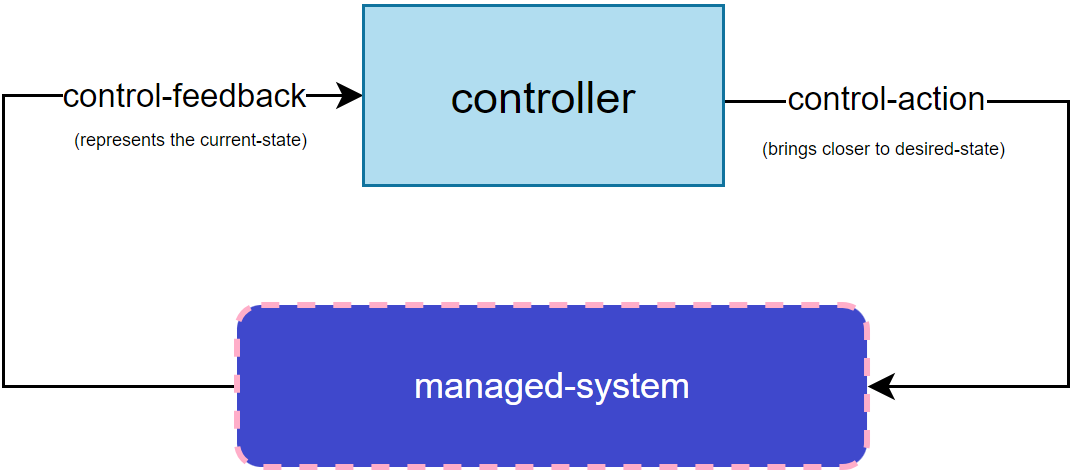
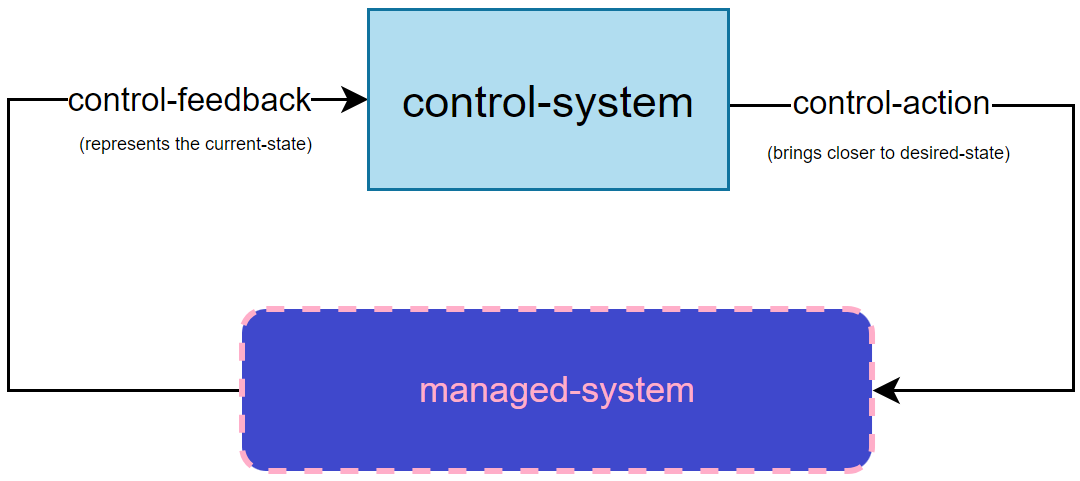
docs(defs.md): fix

diff --git a/docs/defs.md b/docs/defs.md
@@ -1,201 +1,167 @@
 # managed-system
-Any system that can be managed by Lupus in a [Closed Control Loop](#closed-control-loop) manner. Typically we aim into systems from telco and mobile networks industry.
+A system that can be managed by Lupus in a [Closed Control Loop](#closed-control-loop) manner. Lupus primarily targets systems in the telecommunications and mobile networks industries.
 
 # control-loop
-Is a fundametal building block of [control-systems](#control-system) (which manages, commands, direct or regulates the bahavior or other devies or systems) in industrial control systems.
+A fundamental building block of [control-systems](#control-system) that manages, commands, directs, or regulates the behavior of other devices or systems in industrial control systems.
 
-We divide control-loops in two groups wheter they incorporate feedback mechanism or not:
-- open-control-loops: the control action (input to the managed-system) is indepentent of the managed-system output.
-- closed-control-loops: in this the output of managed-system is "fed back" to the [control-system](#control-system) and influences the control-action
+Control-loops are divided into two categories based on the incorporation of feedback mechanisms:
+- **Open Control Loops**: The control action (input to the managed system) is independent of the managed system's output.
+- **Closed Control Loops**: The output of the managed system is "fed back" to the [control-system](#control-system) and influences the control action.
 
 # current-state
-The observed, present at the moment and real state of a [managed-system](#managed-system). In contrary to an abstract term of [desired-state](#desired-state).
+The observed, real-time state of a [managed-system](#managed-system). This contrasts with the abstract [desired-state](#desired-state).
 
 # desired-state
-The state of [managed-system](#managed-system) that we would like to achieve from the management point of view. Typically it is derived from the [management-problem](#management-problem). 
+The target state of a [managed-system](#managed-system) that the [control-system](#control-system) aims to achieve. Typically, it is derived from the [management-problem](#management-problem).
 
 # closed-control-loop
-Here, we adopt the defintion of 'control-loop' from Kubernetes. https://kubernetes.io/docs/concepts/architecture/controller/.  Kubernetes concept of sending [current-state](#current-state) as input to the [controller](#controller) is de facto a feedback mechanism, hence every control-loop in Kubernetes is closed-control-loop.
+In Kubernetes, every control-loop is of type closed loop and Kubernetes names them simply - "control loops". In Lupus, we adapt terminology from [Overview of Prominent Control Loop Architectures](https://www.etsi.org/deliver/etsi_gr/ENI/001_099/017/02.01.01_60/gr_ENI017v020101p.pdf), but in mix with [ICS](https://en.wikipedia.org/wiki/Industrial_control_system) one.
 
-Defition: non-terminating loop that regulates the state of a system, by bringing the [current-state](#current-state) of [managed-system](#managed-system) closer to the [desired-state](#desired-state) in each iteration.
+Since, a "Closed control loop" is a loop with architecture as in:
 
 ![](../_img/46.png)
 
+and definition of "A non-terminating loop that regulates the state of a system by iteratively bringing the [current-state](#current-state) of a [managed-system](#managed-system) closer to the [desired-state](#desired-state).".
+
+
 # control-system
-A brain of closed-control-loop. It reads the [control-feedback](#control-feedback) and comes up with [control-action](#control-action). 
+The brain of a closed-control-loop. It reads the [control-feedback](#control-feedback) and determines the [control-action](#control-action) required to address the [management-problem](#management-problem).
 
-Lupus aspires to be the one. 
-
-The ultimate goal of control-system is to solve or keep in harmony the [management-problem](#management-problem).
+Lupus aspires to function as such a control-system.
 
 # control-feedback
-A representation of [current-state](#current-state) sent by the [managed-system](#managed-system) to the [control-system](#control-system).
+A representation of the [current-state](#current-state) sent from the [managed-system](#managed-system) to the [control-system](#control-system).
 
 # control-action
-An action send to or performed on [managed-system](#managed-system) by the [control-system](#control-system) that has to bring it closer to [desired-state](#desired-state).
+An action sent to or performed on a [managed-system](#managed-system) by the [control-system](#control-system) to bring it closer to the [desired-state](#desired-state).
 
 # reconciliation
-An act of bring the [current-state](#current-state) of a [managed-system](#managed-system) closer to the [desired-state](#desired-state). 
+The process of bringing the [current-state](#current-state) of a [managed-system](#managed-system) closer to the [desired-state](#desired-state).
 
 # ingress-agent
-When [user](#user) wants to integrate his [managed-system](#managed-system) with Lupus - as in any other case of combining two softwares together -  he needs some API Integration. Sometimes [user](#user) cannot modify the [managed-system](#managed-system). For such case, and for more generic secure option we came up with ingress-agent. Ingress-Agent links Lupus and [managed-system] together. Typical operation for Ingress-Agent operations is to:
-- receive or gather itself iformation from [managed-system](#managed-system) (sometimes from multiple sources)
-- watch for changes in [managed-system]
-- translate [managed-system](#managed-system) nomenclature to the Lupus one
+An intermediary that integrates a [managed-system](#managed-system) with Lupus. This is especially useful when the [user](#user) cannot modify the managed system. 
 
-Communication of Ingress-Agent and [managed-system](#managed-system) is case-specific, out of scope of this repo and to be done by [user](#user). But communication of Ingres-Agent and Lupus is standardized as [lupin-interface](#lupin-interface). 
+Typical responsibilities of an ingress-agent include:
+- Receiving or gathering information from the [managed-system](#managed-system).
+- Monitoring changes in the [managed-system](#managed-system).
+- Translating managed system terminology into Lupus-compatible nomenclature.
 
-Ingress-Agent communicates with [managed-system](#managed-system) and provides Lupus with [control-feedback](#control-feedback) via [lupin-interface](#lupin-interface).
+The communication between the ingress-agent and the [managed-system](#managed-system) is case-specific and must be implemented by the [user](#user). Communication between the ingress-agent and Lupus is standardized via the [lupin-interface](#lupin-interface).
 
 # egress-agent
-Same as [Ingress-Agent](#ingress-agent) but at the output of Lupus. 
+An intermediary that translates the [control-action](#control-action) from Lupus into actions performed on the [managed-system](#managed-system).
 
-On one side Egress-Agent receives the [control-action](#control-action) from Lupus. This [control-action] is represented as [resulting-data](#resulting-data) json. The mission of Egress-Agent is to translate this into real actions performed on [managed-system] and send them on the other side.
+The egress agent receives the [control-action](#control-action) as [final-data](#final-data) in JSON format from Lupus via the [lupout-interface](#lupout-interface) and performs the corresponding actions on the [managed-system](#managed-system).
 
-Interface on which Lupus send its [control-action](#control-action) is named [lupout-interface](#lupout-interface). 
+# reconciliation-logic
+The operations required to achieve [reconciliation](#reconciliation).
 
-# reconcilliation-logic
-It comprises of operations that are mandatory for [reconciliation](#reconciliation) goal. 
+# loop-logic
+Similar to [reconciliation-logic](#reconciliation-logic), but while reconciliation logic describes what needs to be done in a single iteration, loop-logic is more of a general attribute of the loop.
 
-# loop logic 
-Same as [reconciliation-logic](#reconcilliation-logic), while reconciliation logic describes more what has to be done in a single iteration and loop-logic is more of a general loop attribute.
-
-In context of this repo, we can highlight a [computing-part of the loop-logic](#computing-part). Computing part is responsible for the actual calculations, while the other part of loop-logic contain sequence of these calculations or data fed from/to them.
+We can divide loop-logic in two parts:
+- [computing-part](#computing-part) responsible form performing the actual calculations, while
+- [loop-workflow](#loop-workflow) expresses the sequence of these calculations and the data passed to and from them.
 
 # computing-part
-Part of the [loop-logic](#loop-logic) that is responsible for calculations that have to be done for reconciliation. 
+The component of the [loop-logic](#loop-logic) responsible for performing calculations required for [reconciliation](#reconciliation). 
 
-Since Lupus is [data-driven](#data-driven), this part is performed by [external-elements](#external-element), not [lupus-elements](#lupus-element).
-
+Since Lupus is [data-driven](#data-driven), this part is handled by [external-elements](#external-element), not [lupus-elements](#lupus-element).
 
 # loop-workflow
-It is a [workflow](#workflow) present in one iteration of loop. Loop workflow should deliver the proper [loop-logic](#loop-logic). It is build from [loop-elements](#loop-element). In Lupus, loop-workflow is expressed in [LupN](#lupn).
+A [workflow](#workflow) performed during one iteration of a control loop. A loop workflow delivers the [loop-logic](#loop-logic) and is composed of [loop-elements](#loop-element).
+
+In Lupus, the loop workflow is expressed in [LupN](#lupn).
 
 # loop-element
-Building entity of Loop Workflow. Can be [lupus-element] or [external-element].
+A building block of the [loop-workflow](#loop-workflow). Loop elements can be either [lupus-elements](#lupus-element) or [external-elements](#external-element).
 
 # lupus-element
-A [loop-element] that runs in Kubernetes Cluster. Its mission is to express [loop workflow], but delegate loop-logic to external elements. Lupus-element is implemented as [custrom-resource](#custom-resources) and thus its [controller](#controller) can't have any loop-logic implemented. Loop-logic has to be derived somewhere else.
+A [loop-element](#loop-element) that runs in a Kubernetes cluster. Its purpose is to express the [loop-workflow](#loop-workflow) and delegate the [computing-part](#computing-part) to [external-elements](#external-element). 
 
-In Kubernetes it is a [custom-resource](#custom-resources) named `elements.lupus.gawor.io`. 
+A lupus element is implemented as a [custom-resource](#custom-resources).
 
 # external-element
-A [loop-element] that runs outside of Kubernetes Cluster. Its mission is to deliver [computating-part](#computing-part) of [loop-logic](#loop-logic). 
+A [loop-element](#loop-element) that operates outside the Kubernetes cluster, performing the [computing-part](#computing-part) of the [loop-logic](#loop-logic).
 
-As for now 3 types of external-elements are supported:
+Supported types include:
 - HTTP servers
-- Open Policy Agent (subtype of HTTP Server)
+- Open Policy Agent (a subtype of HTTP server)
 - [user-functions](#user-functions)
 
 # user-functions
-It was assumed that [controller](#controller) of [lupus-element](#lupus-element) should not contain any [computing-part](#computing-part) of [loop-logic](#loop-logic). But sometimes it is non-sense to deploy a HTTP Server solely for the reason of it serving as [external-element](#external-element) for Lupus (e.g. in case if [computation-part](#computation-part) of [loop-logic](#loop-logic) contains few lines of code). We allow to deploy such logic in [controller](#controller) of [lupus-element](#lupus-element) by introduction of "user-functions". These functions act logically as [external-elemenet](#external-element) with the difference that physically they are deployed in Kubernetes cluster, not outside of it. 
-
-//TODO link for docs
+A lightweight alternative to deploying HTTP servers for simple computations. User functions act as [external-elements](#external-element) but are executed within the Kubernetes cluster.
 
 # lupin-interface
-Interface implemented by the [Ingress-Agent](#ingress-agent) on which it sends [control-feedback](#control-feedback) to the Lupus.
-
-//TODO link for docs
+The interface through which the [ingress-agent](#ingress-agent) sends [control-feedback](#control-feedback) to Lupus.
 
 # lupout-interface
-Interface implemented by the [Egress-Agent](#egress-agent) on which it receiver [control-action](#control-action) from the Lupus.
-
-//TODO link for docs
+The interface through which Lupus sends [control-action](#control-action) to the [egress-agent](#egress-agent).
 
 # management-problem
-A problem that occurs in given [managed-system](#managed-system) and has to be solved by [control-system](#control-system). 
+A problem occurring in a [managed-system](#managed-system) that the [control-system](#control-system) aims to solve.
 
-> E.g. keeping the constant and desired temperature in a room.
+> **Example**: Maintaining a constant, desired room temperature.
 
 # user
-
-A person or organisation willing to use Lupus project for automation of its [managed-systems](#managed-system). 
-
-Adjusting a [managed-system](#managed-system) with [Ingress](#ingress-agent) or [Egress Agents](#egress-agent) or development of [external-elements](#external-element) will always require software developers and such people are included in "user" definition, but we distinguish the role of a [designer](#designer). 
+An individual or organization using Lupus for automating the management of [managed-systems](#managed-system). This term includes software developers who handle development of [ingress](#ingress-agent) and [egress agents](#egress-agent) and [external-elements](#external-element).
 
 # designer
-
-Our assumption was that the design of [loop-workflow](#loop-workflow) will require minimal set of technical/engineering skills. Thus, the person who solely operates on [LupN](#lupn) and delegates work related to [Ingress](#ingress-agent) and [Egress Agents] or [external-elements](#external-element) to Software Engineers is denoted by the name "loop-designer". Its mission is to design a loop. [User](#user), in contrary, denotes whole organisation.
+An individual responsible for designing the [loop-workflow](#loop-workflow) in [LupN](#lupn). Designers typically rely on software engineers to handle system integrations.
 
 # lupus-controllers
-
-An abbreviation for [master](#master) and [lupus-element](#lupus-element) [controllers](#controller).
+A collective term for the controllers of [master](#master) and [lupus-elements](#lupus-element).
 
 # data
-Data is an information carrier implemented in JSON format.
-
-Data is the way in which user can:
-- retrive information from [current-state](#current-state)
-- store auxiliary information
-- save information need to formulate [control-action](#control-action)
-during a [loop-iteration](#loop-iteration).
-
-The intial form of [Data](#data) in each [loop-iteration](#loop-iteration) is given by the [current-state](#current-state) input on [lupin-interface](#lupin-interface). Then [lupus-element](#lupus-element) performs modifications on it by [actions](#action). The resulting form of Data is called [final-data](#final-data) and in this form it is sent on [lupout-interface](#lupout-interface). 
+The carrier of information in JSON format, used throughout a loop iteration. Data evolves as follows:
+- Initial form: Derived from [current-state](#current-state) via the [lupin-interface](#lupin-interface).
+- Intermediate forms: Modified by [loop-elements](#loop-element).
+- Final form: Sent to the [lupout-interface](#lupout-interface) as [final-data](#final-data).
 
 # ingress-element
-A [loop-element](#loop-element) which terminates the [lupin-interface](#lupin-interface). The first element of the [loop-workflow](#loop-workflow).
+A [loop-element](#loop-element) that terminates the [lupin-interface](#lupin-interface) and initiates the [loop-workflow](#loop-workflow).
 
 # egress-element
-
-A [loop-element](#loop-element) that utilizes the [lupout-interface](#lupout-interface). 
+A [loop-element](#loop-element) that sends the final [control-action](#control-action) to the [lupout-interface](#lupout-interface).
 
 # master
-Master is a type of [custom-resource] named `masters.lupus.gawor.io`. It mission is to spawn [lupus-elements](#lupus-element). Its YAML file includes the LupN notation.
+A type of [custom-resource](#custom-resources) named `masters.lupus.gawor.io`. The master is responsible for spawning [lupus-elements](#lupus-element). Its YAML specification includes the [LupN](#lupn) notation.
 
 # lupn
-A special notation in YAML, developed in purpose of expressing a [loop-workflow]. A LupN notation is included in [master](#master) YAML specification and later interpretted by its controller to create and run defined loop. 
-
-LupN supports the expression of sequential loop workflow, flow-control or immediate exits. Also, by the mechanism of [actions](#action) it allows to reach out and modify information stored in [data](#data).
-
-LupN introduces few abstract terms/mechanisms as actions, data, destination, next for the cause of workflow expression. (Same as programming languages come with their classes, objects etc..). 
-
-[Full documentation is available here!](lupn.md)
-
-# destination
-Destination represents adress infromation of [external-element](#external-element).
-
-//TODO link for its docs in LupN
+A YAML-based notation for defining [loop-workflows](#loop-workflow) in Lupus. LupN supports sequential workflows, flow control, and immediate exits, as well as [actions](#action) for data manipulation.
 
 # action
-
-Do not confuse with [control-action](#control-action).
-
-It is a LupN term.
-
-Actions performs modifications od Data. This is the way in which we can interfact with Data, to:
-- retrive information from [current-state](#current-state)
-- store auxiliary information
-- save information need to formulate [control-action](#control-action)
-during a [loop-iteration](#loop-iteration).
-
-// TODO link for docs
+An operation defined in LupN that modifies [data](#data) during a [loop-iteration](#loop-iteration). Do not confuse with [control-action].
 
 # final-data
-In each iteration when the Data will be modified with all the elements's actions we name such Data  - "final". It is simply the Data at the output of element.
+The state of [data](#data) at the end of a loop iteration, representing its final form before being sent to the [lupout-interface](#lupout-interface). [Egress-Agent](#egress-agent) will derive a [control-action](#control-action) from it.
 
 # workflow
-Workflow is a chain of actions connected in a single direction. Sometimes the next action of chain results from condition expression.
+A sequence of connected actions, sometimes conditionally dependent, that achieve a specific goal.
 
 # data-driven
+A design principle where Lupus elements express the [loop-workflow](#loop-workflow) but delegate [computing-part of loop-lofic](#computing-part) to [external-elements](#external-element).
 
-Lupus primary goal was to be data-driven, do not comprise any [reconciliation logic](#reconcilliation-logic) on its own. Lupus internal elements had only to express the loop workflow, do not perform any computation needed in [reconciliation-logic](#reconcilliation-logic) (as calculating the diffrences between [current](#current-state) and [desired](#desired-state)) or reaching out for some information to external databases. Only in this way it is possible to propose a framework that can run **ANY** loop. The [controller](#controller) of loop element in Kubernetes can't have any of the [loop-logic](#loop-logic), the logic has to be delegated somehwere else, but still belong to the loop. Thus we divide loop-elements in two groups:
+Only in this way it is possible to propose a framework that can run **ANY** loop. The [controller](#controller) of loop element in Kubernetes can't have any of the [loop-logic](#loop-logic), the logic has to be delegated somehwere else, but still belong to the loop. We divide [loop-elements](#loop-element) into two groups:
 - [lupus-element](#lupus-element) - These run in Kubernetes cluster, they serve to express loop workflow and delegate actual computing to [external-elements]
 - [external-element](#external-element) - These run outside of Kubernetes cluster, typically as HTTP servers (especially [Open Policy Agent](#open-policy-agent))
 
 # custom-resources
-This is a Kubernetes term: https://kubernetes.io/docs/concepts/extend-kubernetes/api-extension/custom-resources/
+A Kubernetes term: https://kubernetes.io/docs/concepts/extend-kubernetes/api-extension/custom-resources/
 
-This is a mechanism to extend Kubernetes. Sometimes built-in (default) resources like Pods, Deployments, Services are not sufficient for our goals. We can define a new resource type and register it in a Cluster. Typically these are created for managemenet of complex application configurations or automated deployment of stateful applications. To register a new resource kind in cluster you need to define it with [Custom Resource Definition file](#crd) and apply it.
+Custom resources extend Kubernetes' built-in resource types to manage complex application configurations or stateful applications.
+
+Sometimes built-in (default) resources like Pods, Deployments, Services are not sufficient for our goals. We can define a new resource type and register it in a Cluster. Typically these are created for managemenet of complex application configurations or automated deployment of stateful applications. To register a new resource kind in cluster you need to define it with [Custom Resource Definition file](#crd) and apply it.
 
 # crd
-This is a Kubernetes term: https://kubernetes.io/docs/tasks/extend-kubernetes/custom-resources/custom-resource-definitions/
+A Kubernetes term: https://kubernetes.io/docs/tasks/extend-kubernetes/custom-resources/custom-resource-definitions/
 
-Custom Resource Defintions (CRD) is a file that specifies custom resource. You can apply such file to register new resource type.
+CRDs define new custom resource types and enable their registration in a Kubernetes cluster.
 
 # controller
-This is a Kubernetes term: https://kubernetes.io/docs/concepts/architecture/controller/
+A Kubernetes term: https://kubernetes.io/docs/concepts/architecture/controller/
 
-Every resource has its controller. controller runs control loop for them. If anything changes in an API Object like Pod, Deployment, Service etc. Controller gets notified and compares resource [current-state](#current-state) (`status` stored in [etcd](#etcd)) with [desired-state](#desired-state) (`spec` specified e.g. in YAML). Controller for built-in types (kinds) are developed by the Kubernetes team.
+Controllers run control loops for Kubernetes resources, reconciling their [current state](#current-state) with the [desired state](#desired-state). Lupus leverages [controllers](#controller) to manage its [custom resources](#custom-resources), including the [master](#master) and [elemenet](#lupus-element).
 
 # operator-pattern
 This is a Kubernetes term: https://kubernetes.io/docs/concepts/extend-kubernetes/operator/

diff --git a/docs/data.md b/docs/data.md
@@ -1,0 +1,7 @@
+# Data
+
+Data is the way in which user can:
+- retrive information from [current-state](defs.md#current-state)
+- store auxiliary information
+- save information need to formulate [control-action](defs.md#control-action)
+during a [loop-iteration](#defs.md#loop-iteration).
